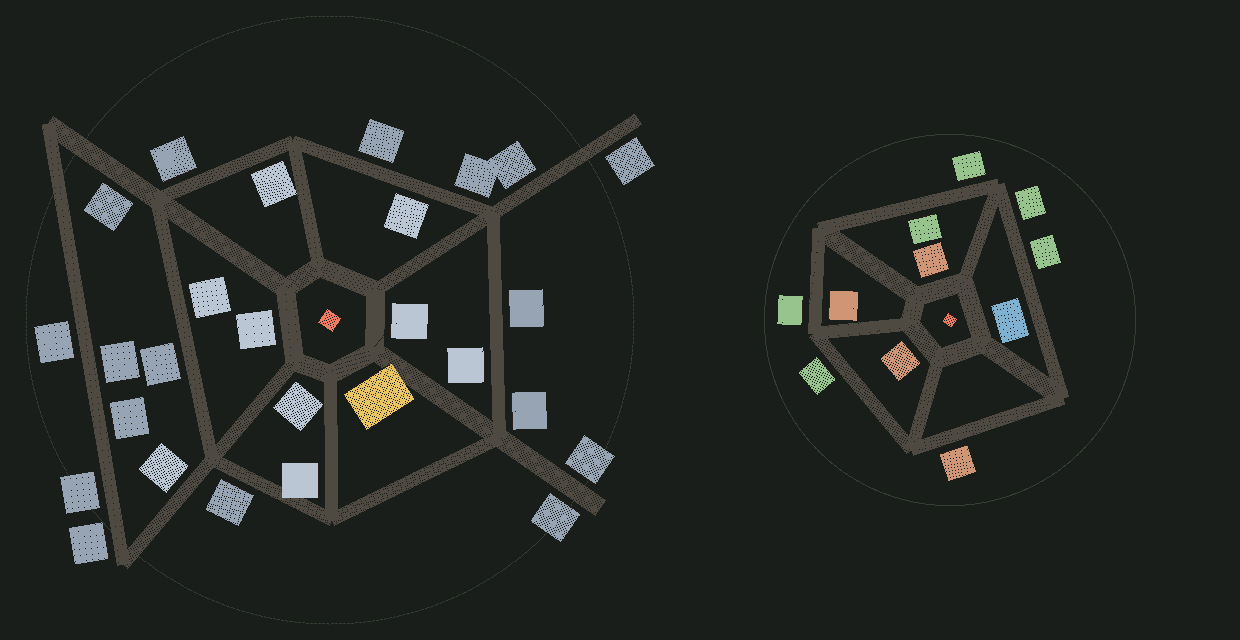
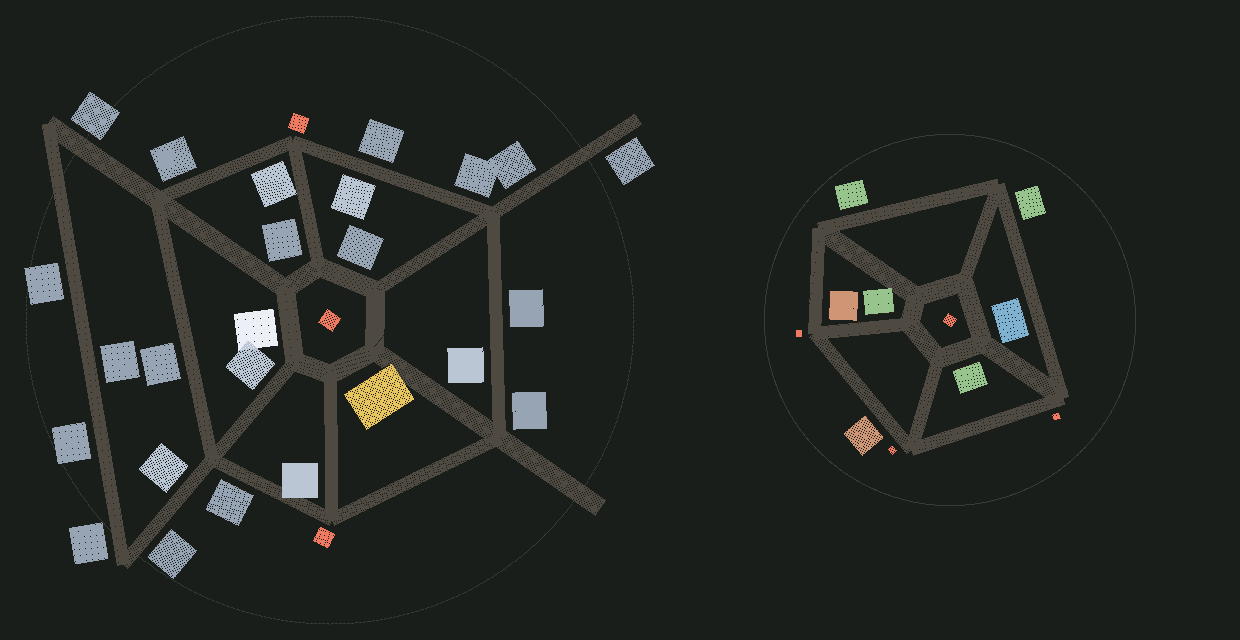
Landmarks find their room, a city gets its spire, and the design is written down
THE JUNCTION LANDMARKS WERE ALL BEING FILTERED OUT - one survived in a city and
none in a village, out of seven eligible junctions. Two causes, both mine: a `% 2`
skip that halved them before anything else looked, and a clearance test that
demanded the neighbouring building's own DIAGONAL plus four metres, which on a city
block is an 11.8 m exclusion around every house. A junction corner is never that
empty.

Both halves were the wrong question. A landmark is small, and what it needs
clearance from is the size of the TWO things - so each candidate corner is tried in
turn and the first with actual room is taken. That is the difference between "put it
here and hope" and "find where it goes". A city gets five, a village four.

A candidate must also clear EVERY carriageway rather than only the lane it belongs
to: a corner beside one lane is very often inside the ring road that lane leaves,
which is how a well came to stand 2.3 m from the middle of a 4.2 m street while
clearing its own by a comfortable margin.

AND A CITY HAS ITS SPIRE. It was modelled, exported, and never once stood up: the
placement compared the spire's needs against the BUILDING's footprint instead of
against its lot, which no city building could ever satisfy. The most central tower
becomes it - a tower's lot is already cut for 10.8 x 11.3 m with four metres of air,
and a spire is 11.8 x 12.8. Rogers' weenie, finally standing.
[…]

diff --git a/src/world/town.rs b/src/world/town.rs
@@ -746,43 +746,117 @@ pub fn lay_out(site: &Site, approach: Vec2, seed: u32) -> Layout {
         what: on_the_square,
     });
 
-    // And one at every second junction, so a hub is visible from the hub before it -
-    // which is the other half of the rule and the thing that makes a town navigable
+    // And one at a junction, so a hub is visible from the hub before it - which is
+    // the other half of Rogers' rule, and the thing that makes a town navigable
     // rather than merely decorated.
-    let mut junctions = 0;
+    //
+    // # Placed by looking for room, not by hoping there is some
+    //
+    // The first cut took every second lane, offset the landmark one fixed distance
+    // into the corner, and dropped it if anything was within the building's own
+    // DIAGONAL plus four metres. On a city block that is a 11.8 m exclusion around
+    // every house, and a junction corner is never that empty - so of seven eligible
+    // lanes, one landmark survived in a city and none at all in a village. Both
+    // halves were wrong: a landmark is small, and what it needs clearance from is
+    // the SIZE OF THE TWO THINGS, not one of them squared off and rounded up.
+    //
+    // So each candidate corner is tried in turn and the first with actual room is
+    // taken. That is the difference between "put it here and hope" and "find where
+    // it goes".
+    let mut placed: Vec<Vec2> = vec![site.at];
+    let most_marks = if site.city { 5 } else { 3 };
+    let mark_half = at_a_junction.footprint().max_element() * 0.5;
+
     for street in &streets {
+        if placed.len() > most_marks {
+            break;
+        }
+        // Lanes only: the high street runs through, it does not begin at a node.
         if street.wide >= STREET_WIDE - 0.01 {
             continue;
         }
-        junctions += 1;
-        if junctions % 2 != 0 {
-            continue;
-        }
         let mouth = street.from;
-        if mouth.distance(site.at) < square * 1.4 {
+        if mouth.distance(site.at) < square * 1.3 {
             continue;
         }
-        // Set into the open CORNER beside the junction, not back along the lane.
-        //
-        // Backwards along the lane puts it in the ring road it just left, which is a
-        // monument in the middle of the carriageway. Perpendicular, and away from
-        // the middle of town, is the corner nobody drives through.
         let run = (street.to - street.from).normalize_or_zero();
-        let aside = run.perp();
         let out = (mouth - site.at).normalize_or_zero();
-        let aside = if aside.dot(out) < 0.0 { -aside } else { aside };
-        let at = mouth + run * (street.wide * 0.6 + 1.4) + aside * (street.wide * 0.5 + 3.4);
-        if plots
-            .iter()
-            .any(|p| p.at.distance(at) < p.what.footprint().length() * 0.5 + 4.0)
-        {
-            continue;
+
+        // The four corners of the junction, nearest first.
+        let mut spot = None;
+        'corners: for along in [1.0_f32, -0.6] {
+            for side in [1.0_f32, -1.0] {
+                let aside = run.perp() * side;
+                let aside = if aside.dot(out) < 0.0 { -aside } else { aside };
+                let at = mouth
+                    + run * (street.wide * 0.6 * along + 1.2)
+                    + aside * (street.wide * 0.5 + mark_half + 1.6);
+
+                // Clear of every building, by the two half-widths and a metre.
+                let crowded = plots.iter().any(|p| {
+                    let want = p.what.footprint().max_element() * 0.5 + mark_half + 1.0;
+                    p.at.distance(at) < want
+                });
+                // And well clear of the other landmarks, or they stop being
+                // landmarks and become street furniture.
+                let huddled = placed.iter().any(|other| other.distance(at) < square * 1.1);
+                // And out of EVERY carriageway, not just the one it belongs to. A
+                // corner beside one lane is very often inside the ring road that
+                // lane leaves - which is how a well ended up 2.3 m from the middle
+                // of a 4.2 m street while clearing its own by a comfortable margin.
+                let paved = streets.iter().any(|other| {
+                    other.nearest(at).0 < other.wide * 0.5 + mark_half + 0.6
+                });
+                if !crowded && !huddled && !paved {
+                    spot = Some((at, run));
+                    break 'corners;
+                }
+            }
         }
-        plots.push(Plot {
-            at,
-            facing: run.y.atan2(run.x),
-            what: at_a_junction,
-        });
+
+        if let Some((at, run)) = spot {
+            placed.push(at);
+            plots.push(Plot {
+                at,
+                facing: run.y.atan2(run.x),
+                what: at_a_junction,
+            });
+        }
+    }
+
+    // THE WEENIE. A city's tallest building goes nearest its middle.
+    //
+    // Rogers' first hub rule and the one the districts alone cannot give you: a
+    // place needs one thing tall enough to see from OUTSIDE it, that pulls you
+    // toward the centre. Without this the spire was built, exported, and never
+    // placed - the tallest thing in a city was whatever tower the dice produced,
+    // and a city whose tallest building is also its second tallest has no middle.
+    //
+    // The nearest lot to the square that can hold it becomes it, so it stands on the
+    // best ground in the city rather than wherever there happened to be room.
+    let weenie = Building::weenie(site.city);
+    if site.city {
+        // The most central TOWER becomes it. A tower's lot was already cut for a
+        // 10.8 x 11.3 m building with four metres of air, and a spire is 11.8 x 12.8
+        // - so anywhere a tower stands, a spire stands.
+        //
+        // The first cut compared the spire's `wants` against the BUILDING's
+        // footprint rather than against its lot, which no city building could ever
+        // satisfy: every city came out with no spire in it at all, and the tallest
+        // model in the game was built, exported and never once stood up.
+        let mut nearest: Option<(usize, f32)> = None;
+        for (index, plot) in plots.iter().enumerate() {
+            if plot.what != Building::CityTower {
+                continue;
+            }
+            let out = plot.at.distance(site.at);
+            if nearest.is_none_or(|(_, best)| out < best) {
+                nearest = Some((index, out));
+            }
+        }
+        if let Some((index, _)) = nearest {
+            plots[index].what = weenie;
+        }
     }
 
     // Thinned to what a town of this kind HAS. See HOUSES_IN_A_VILLAGE.
@@ -813,7 +887,11 @@ pub fn lay_out(site: &Site, approach: Vec2, seed: u32) -> Layout {
         // The hall and every landmark survive whatever the size: a city without its
         // guild hall is not a city, and a node without its landmark is a junction.
         let keep_always: Vec<usize> = (0..plots.len())
-            .filter(|i| plots[*i].what == Building::GuildHall || plots[*i].what.is_landmark())
+            .filter(|i| {
+                plots[*i].what == Building::GuildHall
+                    || plots[*i].what.is_landmark()
+                    || plots[*i].what == Building::CitySpire
+            })
             .collect();
         for at in &keep_always {
             kept.push(plots[*at]);
@@ -1301,6 +1379,17 @@ impl Plot {
                 Vec2::new(thick, half.y),
                 self.facing,
             ));
+        }
+
+        // A LANDMARK IS SOLID. It has no door, so it gets no gap - a monument you
+        // can walk into is a monument with a hole in it.
+        if self.what.is_landmark() {
+            walls.push((
+                out(Vec2::new(0.0, -half.y)),
+                Vec2::new(half.x, thick),
+                self.facing,
+            ));
+            return walls;
         }
 
         // The front, in two pieces with the doorway between them.
@@ -1906,6 +1995,83 @@ mod tests {
             crate::config::RANCH_RADIUS
         );
         println!("the nearest town building is {nearest:.0} m from the ranch");
+    }
+
+#[test]
+    #[ignore = "a measurement of the landmark filter"]
+    fn why_the_junction_landmarks_vanish() {
+        for city in [true, false] {
+            let site = a_site(city, if city { 190.0 } else { 95.0 });
+            let layout = lay_out(&site, Vec2::X, 5);
+            let marks = layout.plots.iter().filter(|p| p.what.is_landmark()).count();
+            let radials = layout
+                .streets
+                .iter()
+                .filter(|s| s.wide < STREET_WIDE - 0.01)
+                .count();
+            let square = (site.radius * FILLS * 0.19).clamp(11.0, 17.0);
+            let mut far = 0;
+            for street in &layout.streets {
+                if street.wide >= STREET_WIDE - 0.01 {
+                    continue;
+                }
+                if street.from.distance(site.at) >= square * 1.4 {
+                    far += 1;
+                }
+            }
+            println!(
+                "{}: {radials} lanes, {far} of them start further than {:.0} m out,                  {marks} landmarks placed",
+                if city { "city   " } else { "village" },
+                square * 1.4
+            );
+        }
+    }
+
+/// A town has landmarks, they are spread about, and a city has its weenie.
+    ///
+    /// Rogers' hub rules, as a guard rather than as a comment. All three parts of
+    /// this have been broken at some point: landmarks that were built and never
+    /// placed, a filter so tight that six of seven eligible junctions were rejected,
+    /// and a spire that was modelled, exported, and never once stood up.
+    #[test]
+    fn a_town_has_landmarks_and_a_city_has_something_tall() {
+        for seed in 0..12 {
+            for city in [true, false] {
+                let site = a_site(city, if city { 190.0 } else { 95.0 });
+                let layout = lay_out(&site, Vec2::new(0.6, -0.8).normalize(), seed);
+
+                let marks: Vec<&Plot> =
+                    layout.plots.iter().filter(|p| p.what.is_landmark()).collect();
+                assert!(
+                    marks.len() >= 2,
+                    "seed {seed}, city {city}: {} landmarks - a place with one node                      has nothing to navigate BY",
+                    marks.len()
+                );
+
+                // Spread out, or they are street furniture rather than nodes.
+                for (at, one) in marks.iter().enumerate() {
+                    for other in marks.iter().skip(at + 1) {
+                        let apart = one.at.distance(other.at);
+                        assert!(
+                            apart > 12.0,
+                            "seed {seed}: two landmarks stand {apart:.1} m apart"
+                        );
+                    }
+                }
+
+                // And the tall thing, which is what you see from outside.
+                if city {
+                    let tallest = layout
+                        .plots
+                        .iter()
+                        .any(|p| p.what == Building::CitySpire);
+                    assert!(
+                        tallest,
+                        "seed {seed}: a city with no spire - nothing to see it by                          from the road in"
+                    );
+                }
+            }
+        }
     }
 
     #[test]

diff --git a/DESIGN.md b/DESIGN.md
@@ -1243,7 +1243,120 @@ What the replacement still has to satisfy is unchanged, and is worth stating bef
 * Constants in `src/motion.rs` and `src/player.rs` carry a banner saying they were measured off
   the deleted character. They show the shape of what has to be re-derived, not an answer.
 
+## Settlements: two ages, five elements, and a size the genre chooses
+
+A town is generated the way the industry generates one — streets, then the ground
+between them, then the lots that ground cuts into — and it is populated the way a
+*game* town is populated, which is not the same question and took a while to
+separate.
+
+### Roads, then parcels, then lots
+
+Every step exists for a reason the one before cannot supply. **Streets** are laid
+first, because everything else is defined against them: a plot is not a piece of
+ground, it is a piece of ground *with frontage*. The ground between streets is a
+**parcel**, and a parcel is cut into **lots** along its frontage until a rule stops
+it — too narrow, too shallow, or no longer touching a street. Buildings face the
+street because they were placed against one, not because they were turned to face
+one afterwards.
+
+The alternative — scattering buildings on a disc and drawing paths between them —
+is what makes a procedural town read as a campsite.
+
+### Kevin Lynch's five, which is what every game city is built on
+
+Konstantinos Dimopoulos, who designs cities for games professionally, and the
+level-design reading on *Breath of the Wild* both come back to the same five
+elements. A settlement missing any of them is one players get lost in:
+
+* **Paths** — routes that lead somewhere on purpose. A high street along the road
+  that made the town exist, ring roads, and radial lanes.
+* **Nodes** — where people gather. The square, and the junctions.
+* **Landmarks** — beside a node, so the two reinforce each other.
+* **Districts** — market, crafts, outskirts. Internally consistent, different from
+  their neighbours.
+* **Edges** — *still missing*. A town fades into countryside rather than ending.
+
+**Legibility beats realism**, and that is a decision rather than a shortcut.
+*Breath of the Wild*'s districts are more sharply bounded than any real geography
+on purpose, because a player who can read the world at a glance is worth more than
+one who could survey it. So districts here are rings, not a gradient — and they are
+**shares of the town** rather than fixed distances, because a fixed distance stops
+meaning anything the moment the town changes size.
+
+### A landmark is a different KIND of thing
+
+Scott Rogers' hub-town rules, from the Disneyland model, name the two parts that
+took longest to get right:
+
+* a **"weenie"** — something tall enough to see from *outside*, that pulls you
+  toward the middle. A city's is its spire; a village's, its guild hall. A city
+  whose tallest building is also its second tallest has no middle.
+* a landmark must be a **different kind of thing** from what surrounds it, not a
+  bigger one. A tall house is a house.
+
+So a landmark takes no lot, keeps no frontage, and stands in the open **on** a node
+— which is what makes a node a node. It is also solid: a monument you can walk into
+is a monument with a hole in it.
+
+### How many buildings a town HAS
+
+Not how many fit. Every attempt to thin these towns went at the geometry — wider
+frontages, fewer rings, more air — and every one answered *"how many can stand
+here"* when the question is *"how many should"*. That is not a number the ground
+produces; it is one the genre has. A Pokémon town is five to ten buildings, a Zelda
+village about fifteen, and Novigrad is written as a capital of thirty thousand and
+built at the size of a real small town.
+
+**A village has eleven and a city twenty-eight.** The layout still works out every
+lot the ground offers and keeps a spread of them, thinned *within* each district so
+all three survive; the rest stays yards and gardens.
+
+### Two ages of the world
+
+Villages and towns are old-school fantasy — half-timber, thatch, slate, a lane of
+packed earth. Cities are modern — curtain wall, concrete, paved stone, and a
+skyline whose height falls off from the middle. That is not two art styles stapled
+together: it is the setting's own history showing on the ground, and it is the
+strongest district tool there is, because you know what kind of place you are
+standing in from the silhouette before you can read a sign.
+
+### Sized for the camera, not for the warden
+
+He is 1.7 m and a 3 m ceiling was generous for him. He is not what has to fit: the
+camera follows three or four metres behind, so a room he is comfortable in is one
+the view clips out of the moment he steps inside. Storeys are 3.6 m, doors 1.9 ×
+2.45 m, and a cottage is 9.9 m across. For the same reason a building sits on a
+12 cm threshold rather than a 42 cm plinth — a warden walks on the *terrain*, not on
+a building's floor, so a floor 42 cm up is a floor he arrives at shin-first.
+
+### What broke, and the one shape it kept
+
+Four faults in this area, and every one was a measurement that agreed with itself:
+
+* the paving measured 1,929 vertices every time it was asked, and never reached the
+  world — it spawned behind an `if let Some(material)` whose only failure is silent.
+* `framing` laid studs and rails across the whole wall because nothing told it where
+  the openings were, so a post stood in every doorway.
+* `_out` pushed dressings in the negative direction always — outward on two walls
+  and *into the room* on the other two.
+* the desert's reach was measured in twenty-fourths of a world that had since grown.
+
+The rule that catches all four: **ask the thing itself, not the arithmetic about
+it.** A mesh that measures correctly in a function and never reaches the world is
+exactly as useful as no mesh.
+
+
 ## Change log
+
+**2026-08-29** — **Towns, cities and villages.** Generated from streets outward
+(`src/world/town.rs`), built from ten figures in `dev/art/town.py`, and populated to
+a size the genre chooses rather than one the ground allows: a village of eleven, a
+city of twenty-eight. Two ages — fantasy villages on packed earth, modern cities on
+paved stone with a 57 m spire for a skyline. Lynch's districts and Rogers' landmarks
+both applied, with guards for each. Buildings are enterable, sized for the camera
+that follows the player in, and the ranch is marked as not-a-settlement so nothing
+is ever built on it again.
 
 **2026-08-21** — **The woods can be authored.** Five tree species built in
 Blender (`dev/art/trees.py`) take over the grown pool as their files load, by
